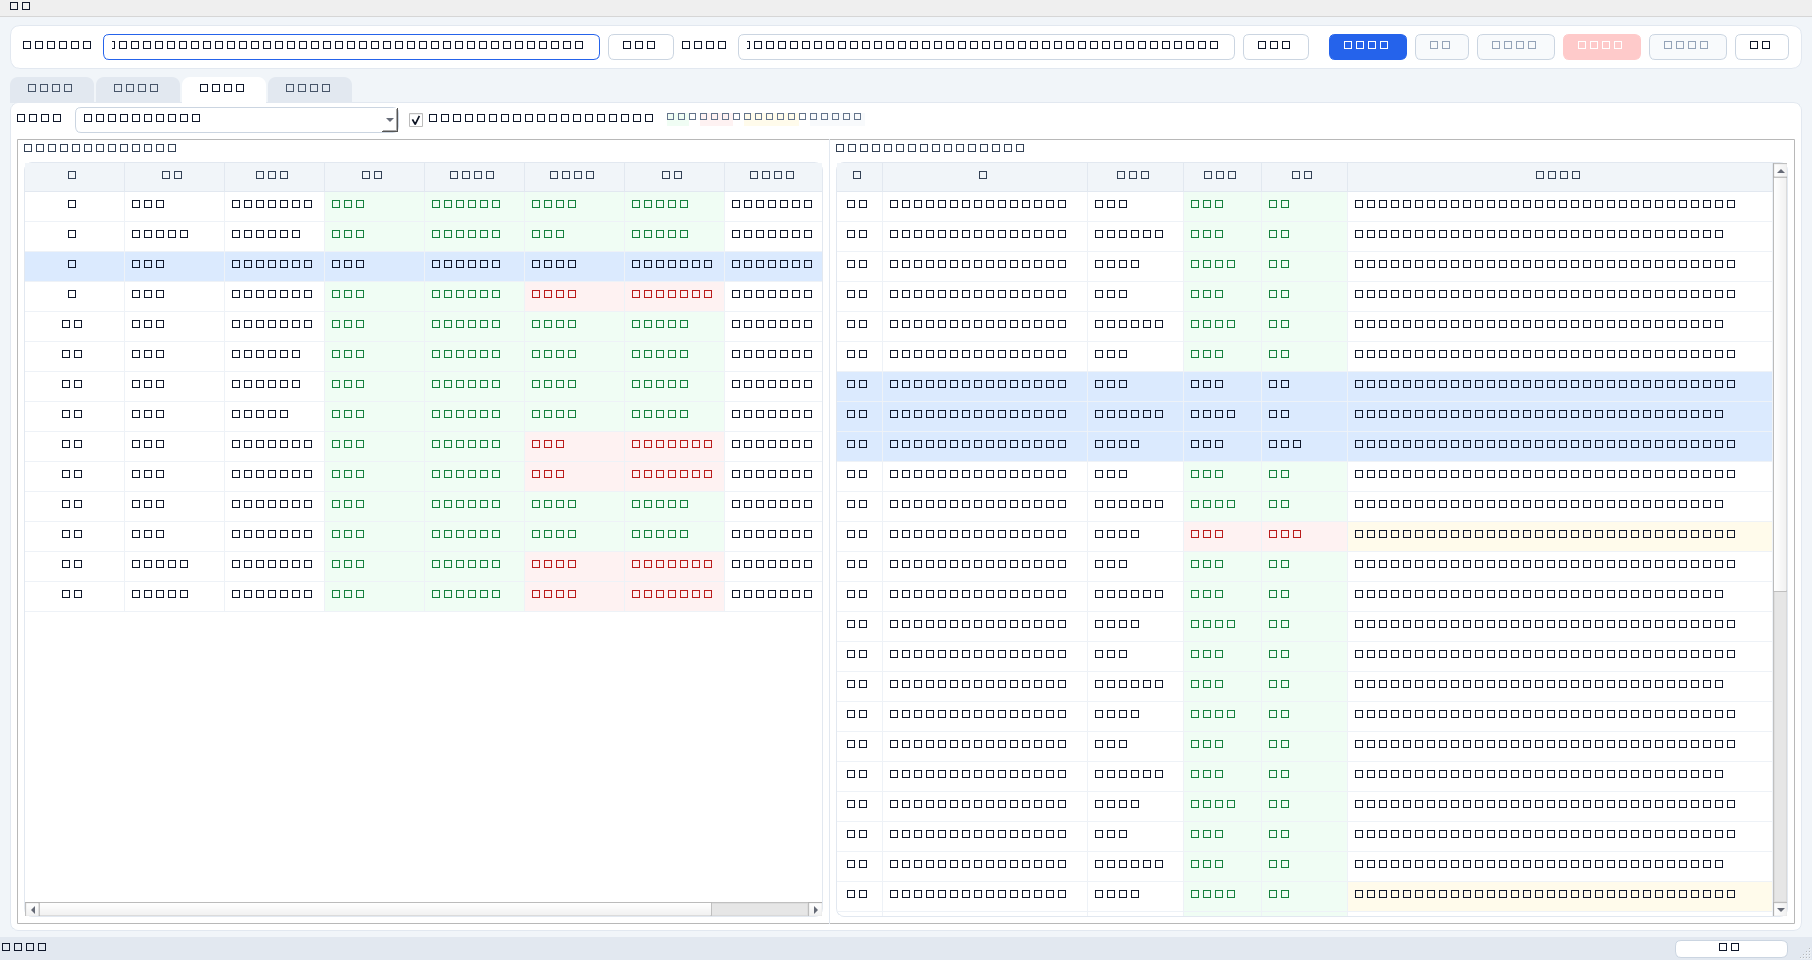
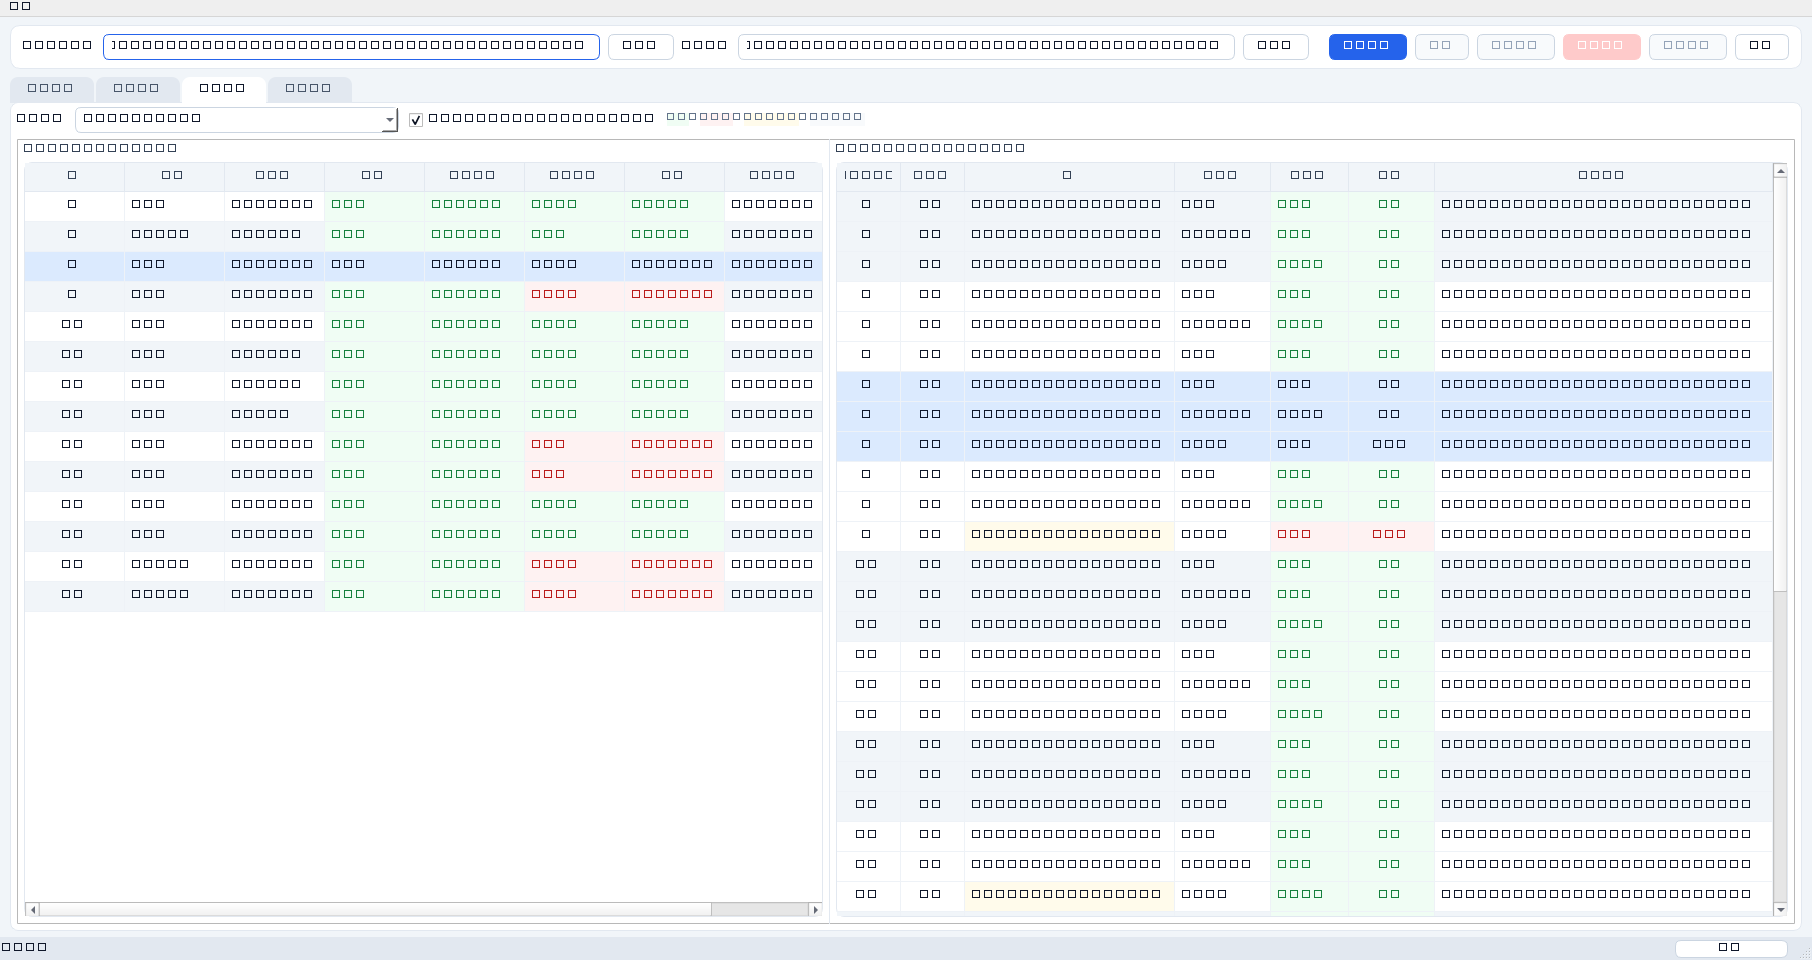
feat(ui): 并排对比视图强化 1 行 ↔ N 条的对应关系
NTK 下每个 Excel 行对应 3 条板级配置（DIR/PP/OUT），原先虽已连续排列，
但视觉上无法看出对应关系。

改动
- 右表新增「Excel 行」锚点列：同组条目显示同一 Excel 行号，一眼定位
- 两表统一分组条带（同一 Excel 行一组、交替底色），与右表的分组一致
- 补分组测试：右表行数 = 左表行数 × 3、锚点连续成组

顺带修复离屏截图工具：无可修改项时预览会弹模态框导致阻塞（RTK 样例
已被应用了 6 处修改，现为 0 处不一致），现在屏蔽提示框并跳过空预览。

diff --git a/src/genboardconfig/ui/compare_view.py b/src/genboardconfig/ui/compare_view.py
@@ -30,6 +30,7 @@ C_BAD_FG = "#b91c1c"
 C_NA_BG = "#f8fafc"
 C_LINK_BG = "#fffbeb"
 C_LINK_FG = "#b45309"
+C_GROUP_BG = "#f1f5f9"      # 分组条带（同一 Excel 行的一组条目）
 
 # 结论严重度：同一条目被多个属性引用时取最严重的一条
 VERDICT_SEVERITY = {
@@ -160,6 +161,9 @@ class ExcelCompareModel(_HighlightModel):
                 elif res.status == CheckStatus.MATCH.value:
                     self._cell_bg[(i, status_col)] = QColor(C_OK_BG)
                     self._cell_fg[(i, status_col)] = QColor(C_OK_FG)
+            # 与右表一致的分组条带（按 Excel 行交替）
+            if i % 2 == 1:
+                self._row_bg[i] = QColor(C_GROUP_BG)
             self._rows.append(cells)
         self.endResetModel()
 
@@ -183,9 +187,13 @@ class ExcelCompareModel(_HighlightModel):
 
 
 class CCompareModel(_HighlightModel):
-    """右侧：板级配置条目（默认只显示与核对相关的位表单元，按 Excel 行分组）。"""
+    """右侧：板级配置条目。
 
-    HEADERS = ["行", "键", "期望值", "实际值", "判定", "定义原文"]
+    每行带「Excel 行」锚点列 —— 同一 Excel 行的 N 个条目（NTK 为 DIR/PP/OUT 三条）
+    连续排列且锚点相同，配合分组条带即可与左表逐行对应。
+    """
+
+    HEADERS = ["Excel 行", "配置行", "键", "期望值", "实际值", "判定", "定义原文"]
 
     def __init__(self):
         super().__init__(list(self.HEADERS))
@@ -197,21 +205,30 @@ class CCompareModel(_HighlightModel):
             font = QFont("Consolas")
             font.setBold(True)
             return font
-        if role == Qt.TextAlignmentRole and index.column() in (0, 6):
+        if role == Qt.TextAlignmentRole and index.column() in (0, 1, 5):
             return int(Qt.AlignCenter)
         return super().data(index, role)
 
-    def set_entries(self, entries, index_of: dict[str, int], extra: dict[str, dict] | None = None) -> None:
-        """extra: entry_id → {期望值, 判定}"""
+    def set_entries(
+        self,
+        entries,
+        index_of: dict[str, int],
+        extra: dict[str, dict] | None = None,
+        groups: dict[str, tuple[int, int]] | None = None,
+    ) -> None:
+        """extra: entry_id → {期望值, 判定}；groups: entry_id → (Excel 行号, 组序号)"""
         self.beginResetModel()
         self._reset(list(self.HEADERS))
         self._entry_ids = []
         self._index_of = index_of
         extra = extra or {}
+        groups = groups or {}
         for entry in entries:
             info = extra.get(entry.id, {})
+            excel_row, _group = groups.get(entry.id, (0, 0))
             self._rows.append(
                 [
+                    excel_row,
                     entry.line,
                     entry.key,
                     info.get("expected", "-"),
@@ -288,7 +305,7 @@ class CompareView(QWidget):
 
         for col, width in {0: 46, 1: 130, 2: 130, 3: 96, 4: 112, 5: 104, 6: 78}.items():
             self.left.setColumnWidth(col, width)
-        for col, width in {0: 46, 1: 205, 2: 96, 3: 78, 4: 86}.items():
+        for col, width in {0: 64, 1: 64, 2: 210, 3: 96, 4: 78, 5: 86}.items():
             self.right.setColumnWidth(col, width)
 
         left_panel = self._panel("Excel 数据（HSI）", self.left)
@@ -347,9 +364,15 @@ class CompareView(QWidget):
         req_index = {r.id: i for i, r in enumerate(result.requirements)}
         entry_extra: dict[str, dict] = {}
         entry_severity: dict[str, int] = {}
+        entry_group: dict[str, tuple[int, int]] = {}
         for res in result.results:
             idx = req_index.get(res.requirement_id, -1)
             ids: list[str] = []
+            excel_row = (
+                result.requirements[idx].row_no
+                if 0 <= idx < len(result.requirements)
+                else 0
+            )
             for attr in res.attribute_results:
                 targets = [ev.entry_id for ev in attr.evidence]
                 change = attr.change
@@ -380,10 +403,13 @@ class CompareView(QWidget):
                             "expected": attr.expected or "-",
                             "verdict": verdict,
                         }
+                    # 锚点：条目属于哪个 Excel 行（第几组）
+                    entry_group[eid] = (excel_row, idx)
             related_by_req[idx] = ids
         self._related_by_req = related_by_req
         self._ordered_ids = ordered_ids
         self._entry_extra = entry_extra
+        self._entry_group = entry_group
 
         self._refresh_right()
 
@@ -402,12 +428,15 @@ class CompareView(QWidget):
             selected = list(entries)
 
         index_of = {e.id: i for i, e in enumerate(selected)}
-        self.right_model.set_entries(selected, index_of, self._entry_extra)
+        self.right_model.set_entries(
+            selected, index_of, self._entry_extra, self._entry_group
+        )
 
         # 着色：不一致 → 红；一致 → 绿；同一张位表的其它位 → 淡黄（上下文）
         cell_bg: dict[tuple[int, int], QColor] = {}
         cell_fg: dict[tuple[int, int], QColor] = {}
         bold: set[tuple[int, int]] = set()
+        row_bg: dict[int, QColor] = {}
         tables_of_bad: set[str] = set()
 
         for eid, info in self._entry_extra.items():
@@ -415,12 +444,12 @@ class CompareView(QWidget):
             if r is None:
                 continue
             bad = info.get("verdict") == "不一致"
-            cell_bg[(r, 3)] = QColor(C_BAD_BG if bad else C_OK_BG)
-            cell_fg[(r, 3)] = QColor(C_BAD_FG if bad else C_OK_FG)
             cell_bg[(r, 4)] = QColor(C_BAD_BG if bad else C_OK_BG)
             cell_fg[(r, 4)] = QColor(C_BAD_FG if bad else C_OK_FG)
-            bold.add((r, 3))
+            cell_bg[(r, 5)] = QColor(C_BAD_BG if bad else C_OK_BG)
+            cell_fg[(r, 5)] = QColor(C_BAD_FG if bad else C_OK_FG)
             bold.add((r, 4))
+            bold.add((r, 5))
             if bad:
                 entry = by_id.get(eid)
                 if entry is not None and entry.table:
@@ -428,8 +457,18 @@ class CompareView(QWidget):
         # 差异所在位表的其它位 → 淡黄（上下文）
         for r, entry in enumerate(selected):
             if entry.table and entry.table in tables_of_bad:
-                cell_bg.setdefault((r, 5), QColor(C_LINK_BG))
-        self.right_model.set_highlights(cell_bg, cell_fg, {}, bold)
+                cell_bg.setdefault((r, 2), QColor(C_LINK_BG))
+        # 分组条带：同一 Excel 行的一组条目用同一底色（交替）
+        last_group = None
+        shade = False
+        for r, entry in enumerate(selected):
+            group = self._entry_group.get(entry.id, (0, -1))[1]
+            if group != last_group:
+                shade = not shade
+                last_group = group
+            if shade:
+                row_bg.setdefault(r, QColor(C_GROUP_BG))
+        self.right_model.set_highlights(cell_bg, cell_fg, row_bg, bold)
 
     # ------------------------------------------------------------------
     def _on_left_selection(self) -> None:

diff --git a/tests/test_compare_view.py b/tests/test_compare_view.py
@@ -69,14 +69,32 @@ def test_compare_view_shows_both_sides(tmp_path: Path):
     view.set_result(result)
     assert view.left_model.rowCount() == 2          # Excel 行
     assert view.right_model.rowCount() == 6          # 2 行 × 3 属性
-    # 右侧按 Excel 行分组：DIR → PP → OUT
+    # 右侧按 Excel 行分组排列：DIR → PP → OUT
     keys = [
-        view.right_model.data(view.right_model.index(r, 1))
+        view.right_model.data(view.right_model.index(r, 2))
         for r in range(view.right_model.rowCount())
     ]
     assert keys[0].endswith("_DIR[2]")
     assert keys[1].endswith("_PP[2]")
     assert keys[2].endswith("_OUT[2]")
+
+
+def test_right_pane_groups_by_excel_row(tmp_path: Path):
+    """左表 1 行 ↔ 右表 3 行：锚点列相同且连续成组。"""
+    _app()
+    result = _make_result(tmp_path)
+    view = CompareView()
+    view.set_result(result)
+
+    anchors = [
+        view.right_model.data(view.right_model.index(r, 0))
+        for r in range(view.right_model.rowCount())
+    ]
+    # 每个 Excel 行对应连续 3 条，锚点（Excel 行号）相同
+    assert len(anchors) == view.left_model.rowCount() * 3
+    assert len(set(anchors)) == view.left_model.rowCount()
+    for i in range(0, len(anchors), 3):
+        assert anchors[i] == anchors[i + 1] == anchors[i + 2]
 
 
 def test_mismatch_is_colored_red(tmp_path: Path):
@@ -96,10 +114,10 @@ def test_mismatch_is_colored_red(tmp_path: Path):
     # 右侧：对应 OUT 单元格的「实际值」与「判定」为红底
     idx = next(
         r for r in range(view.right_model.rowCount())
-        if view.right_model.data(view.right_model.index(r, 1)).endswith("_OUT[1]")
+        if str(view.right_model.data(view.right_model.index(r, 2))).endswith("_OUT[1]")
     )
-    assert view.right_model.data(view.right_model.index(idx, 4)) == "不一致"
-    bg = view.right_model.data(view.right_model.index(idx, 3), Qt.BackgroundRole)
+    assert view.right_model.data(view.right_model.index(idx, 5)) == "不一致"
+    bg = view.right_model.data(view.right_model.index(idx, 4), Qt.BackgroundRole)
     assert bg is not None and bg.color().name().lower() == "#fef2f2"
 
 
@@ -176,5 +194,5 @@ def test_rtk_right_pane_keeps_worst_verdict(tmp_path: Path):
     view = CompareView()
     view.set_result(result)
     assert view.right_model.rowCount() == 1
-    verdict = view.right_model.data(view.right_model.index(0, 4))
+    verdict = view.right_model.data(view.right_model.index(0, 5))
     assert verdict == "不一致", f"右表判定应为不一致，实际 {verdict}"

diff --git a/samples/RTK/TPV_21_715GF225_2H1DP_EDP_PINSHARE.h b/samples/RTK/TPV_21_715GF225_2H1DP_EDP_PINSHARE.h
@@ -1,4 +1,4 @@
-/********************************************************************************/
+/********************************************************************************/
 /*   Copyright (c) 2021 Realtek Semiconductor Corp. All rights reserved.        */
 /*                                                                              */
 /*   SPDX-License-Identifier: LicenseRef-Realtek-Proprietary                    */
@@ -76,7 +76,7 @@ typedef enum
 // Pinshare : 0x1002
 // MCU Ctrl : 0xFE02 at _PIN_B3_MCU_REG
 //---------------------------------------------------------------------------
-#define _PIN_B3                                 (_PIN_B3_GPI)
+#define _PIN_B3                                 (_PIN_B3_GPO_OD)
 
 typedef enum
 {
@@ -104,7 +104,7 @@ typedef enum
 // Pinshare : 0x1003
 // MCU Ctrl : 0xFE03 at _PIN_B4_MCU_REG
 //---------------------------------------------------------------------------
-#define _PIN_B4                                 (_PIN_B4_GPO_OD)
+#define _PIN_B4                                 (_PIN_B4_GPO_PP)
 
 typedef enum
 {
@@ -341,7 +341,7 @@ typedef enum
 // Pinshare : 0x100D
 // MCU Ctrl : 0xFE0D at _PIN_F2_MCU_REG
 //---------------------------------------------------------------------------
-#define _PIN_F2                                 (_PIN_F2_GPO_PP)
+#define _PIN_F2                                 (_PIN_F2_GPO_OD)
 
 typedef enum
 {
@@ -613,7 +613,7 @@ typedef enum
 // Pinshare : 0x1017
 // MCU Ctrl : 0xFE17 at _PIN_H4_MCU_REG
 //---------------------------------------------------------------------------
-#define _PIN_H4                                 (_PIN_H4_GPI)
+#define _PIN_H4                                 (_PIN_H4_GPO_OD)
 
 typedef enum
 {
@@ -807,7 +807,7 @@ typedef enum
 // Pinshare : 0x101E
 // MCU Ctrl : 0xFE1E at _PIN_AH1_MCU_REG
 //---------------------------------------------------------------------------
-#define _PIN_AH1                                (_PIN_AH1_GPI)
+#define _PIN_AH1                                (_PIN_AH1_GPO_PP)
 
 typedef enum
 {
@@ -2976,7 +2976,7 @@ typedef enum
 // Pinshare : 0x108C
 // MCU Ctrl : 0x222C at _PIN_D10_MCU_REG
 //---------------------------------------------------------------------------
-#define _PIN_D10                                (_PIN_D10_GPO_PP)
+#define _PIN_D10                                (_PIN_D10_GPO_OD)
 
 typedef enum
 {

diff --git a/tools/screenshot.py b/tools/screenshot.py
@@ -15,7 +15,7 @@ ROOT = Path(__file__).resolve().parent.parent
 sys.path.insert(0, str(ROOT / "src"))
 
 from PySide6.QtCore import QTimer  # noqa: E402
-from PySide6.QtWidgets import QApplication  # noqa: E402
+from PySide6.QtWidgets import QApplication, QMessageBox  # noqa: E402
 
 from genboardconfig.app.service_factory import (  # noqa: E402
     build_check_usecase,
@@ -41,6 +41,9 @@ def main() -> int:
     out = ROOT / "docs" / f"screenshot_compare{suffix}.png"
     app = QApplication.instance() or QApplication(sys.argv)
     apply_style(app)
+    # 离屏环境下模态框会阻塞，屏蔽提示类对话框
+    for name in ("information", "warning", "critical", "question"):
+        setattr(QMessageBox, name, staticmethod(lambda *a, **k: QMessageBox.Ok))
     win = MainWindow()
     win.resize(1600, 960)
     win.show()
@@ -59,11 +62,12 @@ def main() -> int:
     win.session.excel_path = str(excel)
     win.session.c_path = str(cfile)
     result = win.check_usecase.run(
-        win.session, progress=lambda m, p: None, use_llm=True
+        win.session, progress=lambda m, p: None, use_llm=False
     )
     win._on_check_done(result)
     win._select_all_changeable()
-    win._preview_changes()
+    if win._selected_results():
+        win._preview_changes()
 
     def grab():
         win.tabs.setCurrentIndex(2)
